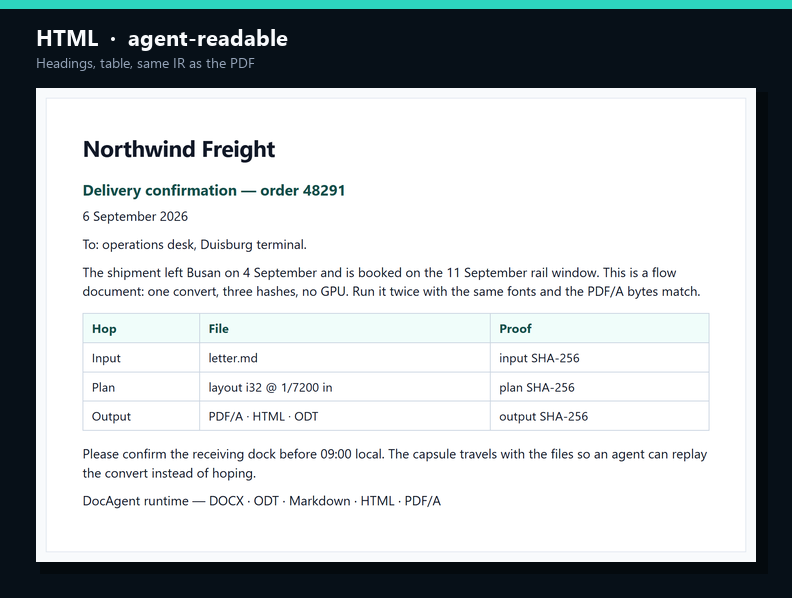
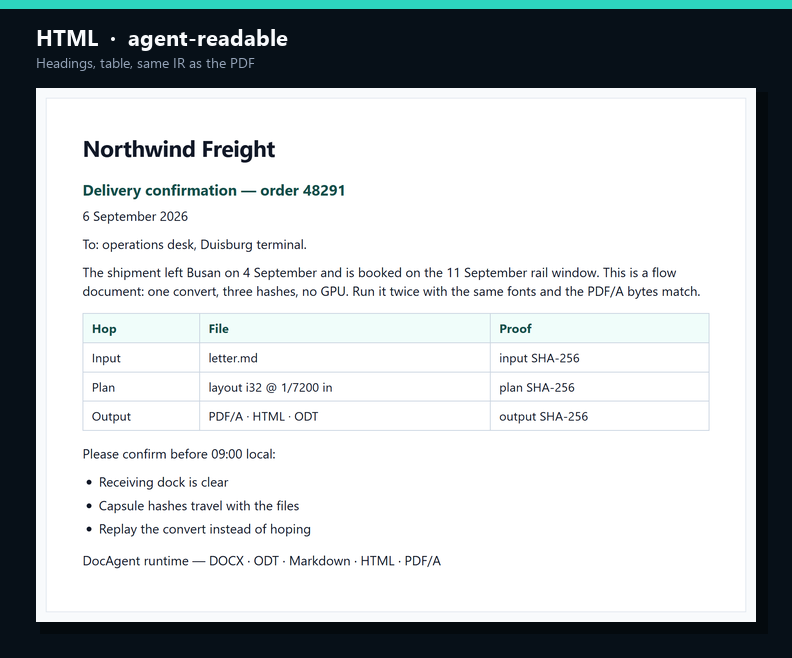
Keep markdown list markers in the letter convert.
- and * items become NumberFormat::Bullet on the IR. Layout paints a hanging bullet; HTML emits ul/li. The sample letter and README screenshots now show the list.

Changed region(s): [[0.0909, 0.2107, 0.9091, 0.8729], [0.0303, 0.0301, 0.9697, 0.1505], [0.0303, 0.9331, 0.9697, 0.9632]]

diff --git a/docs/assets/letter.html b/docs/assets/letter.html
@@ -1,1 +1,1 @@
-<!DOCTYPE html><html lang="en"><head><meta charset="utf-8"/><title>DocAgent</title><style>body{margin:0;background:#f8fafc;color:#111827}article{max-width:48rem;margin:2rem auto;padding:2.5rem 2.75rem;background:#fff;border:1px solid #e2e8f0;font-family:"Segoe UI",Roboto,Helvetica,Arial,sans-serif;line-height:1.45}h1{font-size:1.75rem;margin:0 0 .6rem;letter-spacing:-.02em}h2{font-size:1.15rem;margin:1.1rem 0 .45rem;color:#134e4a}p{margin:0 0 .7rem}table{border-collapse:collapse;margin:1rem 0;width:100%}th,td{border:1px solid #cbd5e1;padding:.4rem .65rem;text-align:left;font-size:.95rem}th{background:#f0fdfa;color:#134e4a}</style></head><body><article data-section="0"><section><h1>Northwind Freight</h1><h2>Delivery confirmation — order 48291</h2><p>6 September 2026</p><p>To: operations desk, Duisburg terminal.</p><p>The shipment left Busan on 4 September and is booked on the 11 September rail window. This is a flow document: one convert, three hashes, no GPU. Run it twice with the same fonts and the PDF/A bytes match.</p><table><tr><th>Hop</th><th>File</th><th>Proof</th></tr><tr><td>Input</td><td>letter.md</td><td>input SHA-256</td></tr><tr><td>Plan</td><td>layout i32 @ 1/7200 in</td><td>plan SHA-256</td></tr><tr><td>Output</td><td>PDF/A · HTML · ODT</td><td>output SHA-256</td></tr></table><p>Please confirm the receiving dock before 09:00 local. The capsule travels with the files so an agent can replay the convert instead of hoping.</p><p>DocAgent runtime — DOCX · ODT · Markdown · HTML · PDF/A</p></section></article></body></html>
+<!DOCTYPE html><html lang="en"><head><meta charset="utf-8"/><title>DocAgent</title><style>body{margin:0;background:#f8fafc;color:#111827}article{max-width:48rem;margin:2rem auto;padding:2.5rem 2.75rem;background:#fff;border:1px solid #e2e8f0;font-family:"Segoe UI",Roboto,Helvetica,Arial,sans-serif;line-height:1.45}h1{font-size:1.75rem;margin:0 0 .6rem;letter-spacing:-.02em}h2{font-size:1.15rem;margin:1.1rem 0 .45rem;color:#134e4a}p{margin:0 0 .7rem}ul{margin:0 0 1rem;padding-left:1.25rem}li{margin:0 0 .35rem}table{border-collapse:collapse;margin:1rem 0;width:100%}th,td{border:1px solid #cbd5e1;padding:.4rem .65rem;text-align:left;font-size:.95rem}th{background:#f0fdfa;color:#134e4a}</style></head><body><article data-section="0"><section><h1>Northwind Freight</h1><h2>Delivery confirmation — order 48291</h2><p>6 September 2026</p><p>To: operations desk, Duisburg terminal.</p><p>The shipment left Busan on 4 September and is booked on the 11 September rail window. This is a flow document: one convert, three hashes, no GPU. Run it twice with the same fonts and the PDF/A bytes match.</p><table><tr><th>Hop</th><th>File</th><th>Proof</th></tr><tr><td>Input</td><td>letter.md</td><td>input SHA-256</td></tr><tr><td>Plan</td><td>layout i32 @ 1/7200 in</td><td>plan SHA-256</td></tr><tr><td>Output</td><td>PDF/A · HTML · ODT</td><td>output SHA-256</td></tr></table><p>Please confirm before 09:00 local:</p><ul><li>Receiving dock is clear</li><li>Capsule hashes travel with the files</li><li>Replay the convert instead of hoping</li></ul><p>DocAgent runtime — DOCX · ODT · Markdown · HTML · PDF/A</p></section></article></body></html>

diff --git a/crates/docagent-html/src/lib.rs b/crates/docagent-html/src/lib.rs
@@ -6,33 +6,55 @@ use docagent_model::{Block, Document, Paragraph, Table};
 
 pub fn to_html(doc: &Document) -> String {
     let mut s = String::from(
-        r#"<!DOCTYPE html><html lang="en"><head><meta charset="utf-8"/><title>DocAgent</title><style>body{margin:0;background:#f8fafc;color:#111827}article{max-width:48rem;margin:2rem auto;padding:2.5rem 2.75rem;background:#fff;border:1px solid #e2e8f0;font-family:"Segoe UI",Roboto,Helvetica,Arial,sans-serif;line-height:1.45}h1{font-size:1.75rem;margin:0 0 .6rem;letter-spacing:-.02em}h2{font-size:1.15rem;margin:1.1rem 0 .45rem;color:#134e4a}p{margin:0 0 .7rem}table{border-collapse:collapse;margin:1rem 0;width:100%}th,td{border:1px solid #cbd5e1;padding:.4rem .65rem;text-align:left;font-size:.95rem}th{background:#f0fdfa;color:#134e4a}</style></head><body>"#,
+        r#"<!DOCTYPE html><html lang="en"><head><meta charset="utf-8"/><title>DocAgent</title><style>body{margin:0;background:#f8fafc;color:#111827}article{max-width:48rem;margin:2rem auto;padding:2.5rem 2.75rem;background:#fff;border:1px solid #e2e8f0;font-family:"Segoe UI",Roboto,Helvetica,Arial,sans-serif;line-height:1.45}h1{font-size:1.75rem;margin:0 0 .6rem;letter-spacing:-.02em}h2{font-size:1.15rem;margin:1.1rem 0 .45rem;color:#134e4a}p{margin:0 0 .7rem}ul{margin:0 0 1rem;padding-left:1.25rem}li{margin:0 0 .35rem}table{border-collapse:collapse;margin:1rem 0;width:100%}th,td{border:1px solid #cbd5e1;padding:.4rem .65rem;text-align:left;font-size:.95rem}th{background:#f0fdfa;color:#134e4a}</style></head><body>"#,
     );
     for (i, section) in doc.sections.iter().enumerate() {
         s.push_str(&format!(r#"<article data-section="{i}">"#));
         if let Some(h) = &section.header {
             s.push_str("<header>");
-            for b in &h.blocks {
-                push_block(&mut s, b);
-            }
+            push_blocks(&mut s, &h.blocks);
             s.push_str("</header>");
         }
         s.push_str("<section>");
-        for b in &section.body {
-            push_block(&mut s, b);
-        }
+        push_blocks(&mut s, &section.body);
         s.push_str("</section>");
         if let Some(f) = &section.footer {
             s.push_str("<footer>");
-            for b in &f.blocks {
-                push_block(&mut s, b);
-            }
+            push_blocks(&mut s, &f.blocks);
             s.push_str("</footer>");
         }
         s.push_str("</article>");
     }
     s.push_str("</body></html>");
     s
+}
+
+fn is_bullet(block: &Block) -> bool {
+    matches!(
+        block,
+        Block::Paragraph(p) if p.numbering.as_ref().is_some_and(|n| n.format == Some(docagent_model::NumberFormat::Bullet))
+    )
+}
+
+fn push_blocks(s: &mut String, blocks: &[Block]) {
+    let mut i = 0;
+    while i < blocks.len() {
+        if is_bullet(&blocks[i]) {
+            s.push_str("<ul>");
+            while i < blocks.len() && is_bullet(&blocks[i]) {
+                if let Block::Paragraph(p) = &blocks[i] {
+                    s.push_str("<li>");
+                    s.push_str(&escape(&p.plain_text()));
+                    s.push_str("</li>");
+                }
+                i += 1;
+            }
+            s.push_str("</ul>");
+        } else {
+            push_block(s, &blocks[i]);
+            i += 1;
+        }
+    }
 }
 
 fn push_block(s: &mut String, block: &Block) {
@@ -127,5 +149,33 @@ mod tests {
         let html = to_html(&doc);
         assert!(html.contains("<h1>Title</h1>"));
         assert!(html.contains("<h2>Section</h2>"));
+    }
+
+    #[test]
+    fn bullets_are_lists() {
+        let mut doc = Document::new();
+        let mut section = Section::default();
+        let mut a = Paragraph::from_text("dock");
+        a.numbering = Some(docagent_model::NumberingRef {
+            definition_id: 0,
+            level: 0,
+            start: None,
+            format: Some(docagent_model::NumberFormat::Bullet),
+        });
+        let mut b = Paragraph::from_text("replay");
+        b.numbering = Some(docagent_model::NumberingRef {
+            definition_id: 0,
+            level: 0,
+            start: None,
+            format: Some(docagent_model::NumberFormat::Bullet),
+        });
+        section.body.push(Block::Paragraph(a));
+        section.body.push(Block::Paragraph(b));
+        doc.sections.push(section);
+        let html = to_html(&doc);
+        assert!(html.contains("<ul>"));
+        assert!(html.contains("<li>dock</li>"));
+        assert!(html.contains("<li>replay</li>"));
+        assert!(!html.contains("<p>dock</p>"));
     }
 }

diff --git a/crates/docagent-layout/src/lib.rs b/crates/docagent-layout/src/lib.rs
@@ -7,8 +7,8 @@
 
 use docagent_font::{line_height, shape, FontSet};
 use docagent_model::{
-    Alignment, Block, BorderStyle, Document, Hu, LineSpacing, Paragraph, Section, Table,
-    DEFAULT_FONT_SIZE_HU,
+    Alignment, Block, BorderStyle, Document, Hu, LineSpacing, NumberFormat, Paragraph, Section,
+    Table, DEFAULT_FONT_SIZE_HU,
 };
 use rayon::prelude::*;
 
@@ -259,7 +259,11 @@ fn layout_paragraph(p: &Paragraph, fonts: &FontSet, width: Hu) -> Vec<LineFrag> 
         LineSpacing::AtLeast(hu) => line_height(fonts, size, 100).max(hu),
         LineSpacing::Percent(_) => line_height(fonts, size, spacing_pct),
     };
-    let usable = (width - p.indent_left - p.indent_right).max(1);
+    let marker = list_marker(p);
+    let marker_w = marker
+        .map(|m| shape(fonts, m, size).width)
+        .unwrap_or(0);
+    let usable = (width - p.indent_left - p.indent_right - marker_w).max(1);
     let shaped = shape(fonts, &text, size);
     let ranges = break_lines(text.clone(), shaped.advances.clone(), usable);
     if ranges.is_empty() {
@@ -269,7 +273,7 @@ fn layout_paragraph(p: &Paragraph, fonts: &FontSet, width: Hu) -> Vec<LineFrag> 
             width: 0,
             height: lh,
             baseline: (lh * 4) / 5,
-            text: String::new(),
+            text: marker.unwrap_or("").to_string(),
             font_size: size,
         }];
     }
@@ -281,19 +285,35 @@ fn layout_paragraph(p: &Paragraph, fonts: &FontSet, width: Hu) -> Vec<LineFrag> 
             let slice: String = chars.get(a..b).unwrap_or(&[]).iter().collect();
             let w: i32 = shaped.advances.get(a..b).unwrap_or(&[]).iter().sum();
             let extra_indent = if i == 0 { p.indent_first } else { 0 };
-            let x = p.indent_left + extra_indent;
-            let aligned_x = align_x(x, w, usable, p.alignment);
+            let (text_out, x_off, extra_w) = if i == 0 {
+                if let Some(m) = marker {
+                    (format!("{m}{slice}"), 0, marker_w)
+                } else {
+                    (slice, 0, 0)
+                }
+            } else {
+                (slice, marker_w, 0)
+            };
+            let x = p.indent_left + extra_indent + x_off;
+            let aligned_x = align_x(x, w + extra_w, usable + marker_w, p.alignment);
             LineFrag {
                 x: aligned_x,
                 y: 0,
-                width: w,
+                width: w + extra_w,
                 height: lh,
                 baseline: (lh * 4) / 5,
-                text: slice,
+                text: text_out,
                 font_size: size,
             }
         })
         .collect()
+}
+
+fn list_marker(p: &Paragraph) -> Option<&'static str> {
+    match p.numbering.as_ref()?.format {
+        Some(NumberFormat::Bullet) => Some("• "),
+        _ => None,
+    }
 }
 
 fn align_x(x: Hu, width: Hu, usable: Hu, alignment: Alignment) -> Hu {
@@ -457,7 +477,7 @@ pub fn table_row_heights(tree: &FragmentTree) -> Vec<Hu> {
 #[cfg(test)]
 mod tests {
     use super::*;
-    use docagent_model::{Paragraph, Section, Table};
+    use docagent_model::{NumberFormat, NumberingRef, Paragraph, Section, Table};
 
     #[test]
     fn layout_uses_integer_hwpunit_only() {
@@ -557,5 +577,24 @@ mod tests {
         assert_eq!(page.rects.len(), 4, "one fill per cell");
         assert!(page.strokes.len() >= 16, "four edges per cell");
         assert_eq!(table_row_heights(&tree).len(), 4);
+    }
+
+    #[test]
+    fn bullets_prefix_first_line() {
+        let mut doc = Document::new();
+        let mut section = Section::default();
+        let mut p = Paragraph::from_text("Receiving dock is clear");
+        p.numbering = Some(NumberingRef {
+            definition_id: 0,
+            level: 0,
+            start: None,
+            format: Some(NumberFormat::Bullet),
+        });
+        section.body.push(Block::Paragraph(p));
+        doc.sections.push(section);
+        let tree = layout_document(&doc, &FontSet::bundled());
+        let text = &tree.pages[0].lines[0].text;
+        assert!(text.starts_with('•'), "{text}");
+        assert!(text.contains("Receiving dock is clear"), "{text}");
     }
 }

diff --git a/crates/docagent-md/src/lib.rs b/crates/docagent-md/src/lib.rs
@@ -4,7 +4,9 @@
 
 #![forbid(unsafe_code)]
 
-use docagent_model::{Block, Document, Paragraph, Section, Table};
+use docagent_model::{
+    Block, Document, NumberFormat, NumberingRef, Paragraph, Section, Table,
+};
 
 #[derive(Debug, thiserror::Error)]
 pub enum Error {
@@ -56,12 +58,13 @@ pub fn read(bytes: &[u8]) -> Result<Document, Error> {
             section.body.push(Block::Paragraph(heading(rest, 1, 1800, 200, 400)));
         } else if let Some(rest) = trimmed.strip_prefix("## ") {
             section.body.push(Block::Paragraph(heading(rest, 2, 1400, 360, 240)));
+        } else if let Some(rest) = trimmed
+            .strip_prefix("- ")
+            .or_else(|| trimmed.strip_prefix("* "))
+        {
+            section.body.push(Block::Paragraph(bullet_item(rest)));
         } else {
-            let item = trimmed
-                .strip_prefix("- ")
-                .or_else(|| trimmed.strip_prefix("* "))
-                .unwrap_or(trimmed);
-            let mut p = Paragraph::from_text(item);
+            let mut p = Paragraph::from_text(trimmed);
             p.space_after = 200;
             section.body.push(Block::Paragraph(p));
         }
@@ -69,6 +72,19 @@ pub fn read(bytes: &[u8]) -> Result<Document, Error> {
     flush_table(&mut section, &mut table_rows);
     doc.sections.push(section);
     Ok(doc)
+}
+
+fn bullet_item(text: &str) -> Paragraph {
+    let mut p = Paragraph::from_text(text);
+    p.space_after = 80;
+    p.indent_left = 1440;
+    p.numbering = Some(NumberingRef {
+        definition_id: 0,
+        level: 0,
+        start: None,
+        format: Some(NumberFormat::Bullet),
+    });
+    p
 }
 
 fn heading(text: &str, level: u8, size_hu: i32, before: i32, after: i32) -> Paragraph {
@@ -112,6 +128,7 @@ pub fn write(doc: &Document) -> Result<Vec<u8>, Error> {
                     match p.outline_level {
                         Some(1) => out.push_str(&format!("# {t}\n\n")),
                         Some(2) => out.push_str(&format!("## {t}\n\n")),
+                        _ if p.numbering.is_some() => out.push_str(&format!("- {t}\n")),
                         _ => out.push_str(&format!("{t}\n\n")),
                     }
                 }
@@ -160,6 +177,29 @@ mod tests {
         let again = read(&back).unwrap();
         assert!(again.plain_text().contains("Title"));
         assert!(again.plain_text().contains("a"));
+    }
+
+    #[test]
+    fn bullets_keep_numbering_on_roundtrip() {
+        let src = b"# Title\n\n- dock is clear\n- replay the convert\n";
+        let doc = read(src).unwrap();
+        let items: Vec<_> = doc.sections[0]
+            .body
+            .iter()
+            .filter_map(|b| match b {
+                Block::Paragraph(p) if p.numbering.is_some() => Some(p.plain_text()),
+                _ => None,
+            })
+            .collect();
+        assert_eq!(items, ["dock is clear", "replay the convert"]);
+        let back = write(&doc).unwrap();
+        let again = read(&back).unwrap();
+        let n = again.sections[0]
+            .body
+            .iter()
+            .filter(|b| matches!(b, Block::Paragraph(p) if p.numbering.is_some()))
+            .count();
+        assert_eq!(n, 2);
     }
 
     #[test]

diff --git a/crates/docagent-model/src/lib.rs b/crates/docagent-model/src/lib.rs
@@ -330,6 +330,7 @@ pub enum NumberFormat {
     AlphaLower,
     AlphaUpper,
     Circled,
+    Bullet,
 }
 
 #[derive(Clone, Copy, Debug, PartialEq, Eq, Serialize, Deserialize)]

diff --git a/docs/loop/STATE.md b/docs/loop/STATE.md
@@ -1,25 +1,24 @@
 # DocAgent #1 loop state
 
-Last cycle: 4 (2026-09-06) — byte-identical rerun proof on the landing page
+Last cycle: 5 (2026-09-06) — markdown/PDF/HTML list markers on the sample letter
 
 ## Public GitHub page (priority 0)
 
 The page strangers see is `https://github.com/kevin9327/docagent`.
 
 Shipped this cycle:
-- CLI `prove`: convert twice (PDF/A + HTML), print both capsules, exit 0 only if bytes and hashes match.
-- Test `letter_md_is_byte_identical_across_two_runs` pins `examples/letter.md`.
-- README **Same bytes twice** shows the real hashes from that prove (same as `letter-capsule.json`) plus `output-rerun.png`.
-- Fixture JSON: `docs/assets/letter-prove.json`. No OmniDocBench / OCR numbers.
+- Markdown `- ` / `* ` keeps `NumberFormat::Bullet` on the IR instead of stripping the marker.
+- Layout prefixes `• ` on the first line with hanging indent. HTML emits `<ul><li>`.
+- `examples/letter.md` now has a three-item confirm list. Convert screenshots and prove hashes refreshed.
 
 Verified hashes (engine 0.1.0, letter.md → PDF/A + HTML):
[5 lines of base64/hex data omitted]
 
 ## Next
 
-1. List markers on the sample letter (markdown `- ` currently strips the bullet).
+1. Ordered lists (`1.`) on the same numbering path.
 2. Or PDF drawing of non-table fills beyond the grid.
 3. Keep visual density at or above MinerU/Docling for an *agent document runtime*.
 

diff --git a/README.md b/README.md
@@ -89,9 +89,9 @@ Not a slogan. Two `Command::Convert` calls on [`examples/letter.md`](examples/le
 
 | Hash | SHA-256 (both runs) |
 | --- | --- |
[5 lines of base64/hex data omitted]
 
 These are the hashes in [`letter-capsule.json`](docs/assets/letter-capsule.json). MinerU and Docling do not ship this. We do not ship OmniDocBench numbers.
 
@@ -107,7 +107,7 @@ These three pictures are the convert of [`examples/letter.md`](examples/letter.m
 <p align="center">
   <img src="docs/assets/output-html.png" alt="Semantic HTML produced by DocAgent from the same letter" width="100%">
 </p>
-<p align="center"><sub>HTML from the same IR. Headings and tables an agent can read back.</sub></p>
+<p align="center"><sub>HTML from the same IR. Headings, tables, and lists an agent can read back.</sub></p>
 
 <p align="center">
   <img src="docs/assets/output-capsule.png" alt="Capsule JSON with input, plan, and output SHA-256 hashes" width="100%">

diff --git a/examples/letter.md b/examples/letter.md
@@ -14,6 +14,10 @@ The shipment left Busan on 4 September and is booked on the 11 September rail wi
 | Plan | layout i32 @ 1/7200 in | plan SHA-256 |
 | Output | PDF/A · HTML · ODT | output SHA-256 |
 
-Please confirm the receiving dock before 09:00 local. The capsule travels with the files so an agent can replay the convert instead of hoping.
+Please confirm before 09:00 local:
+
+- Receiving dock is clear
+- Capsule hashes travel with the files
+- Replay the convert instead of hoping
 
 DocAgent runtime — DOCX · ODT · Markdown · HTML · PDF/A
